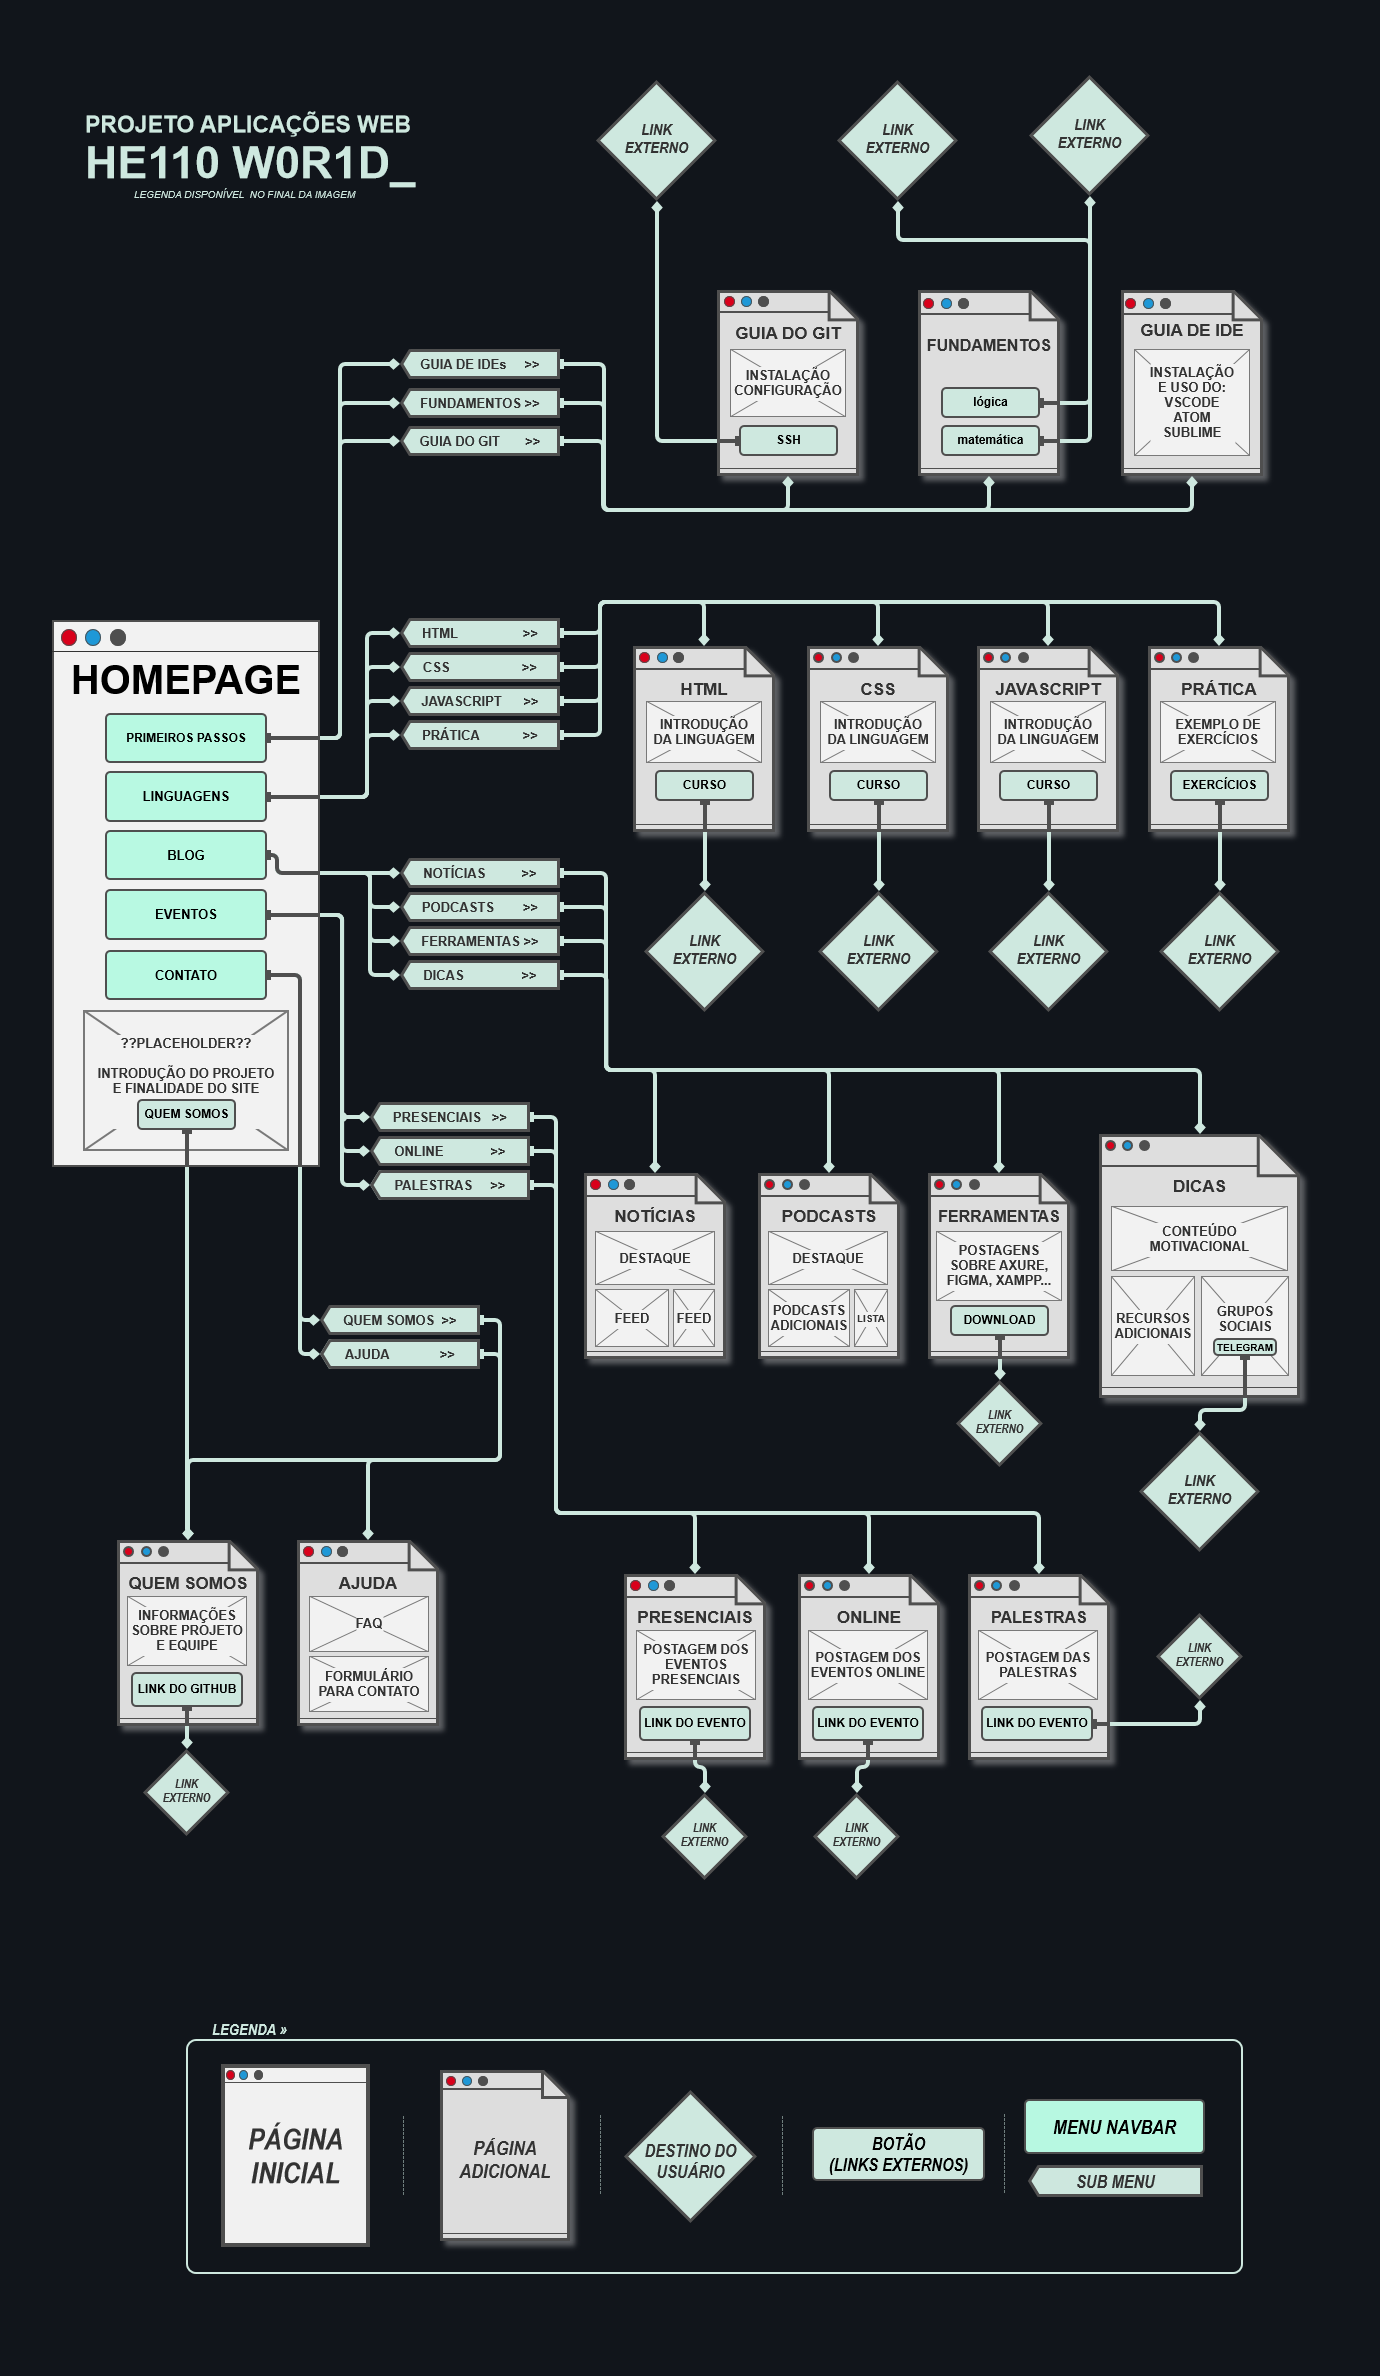
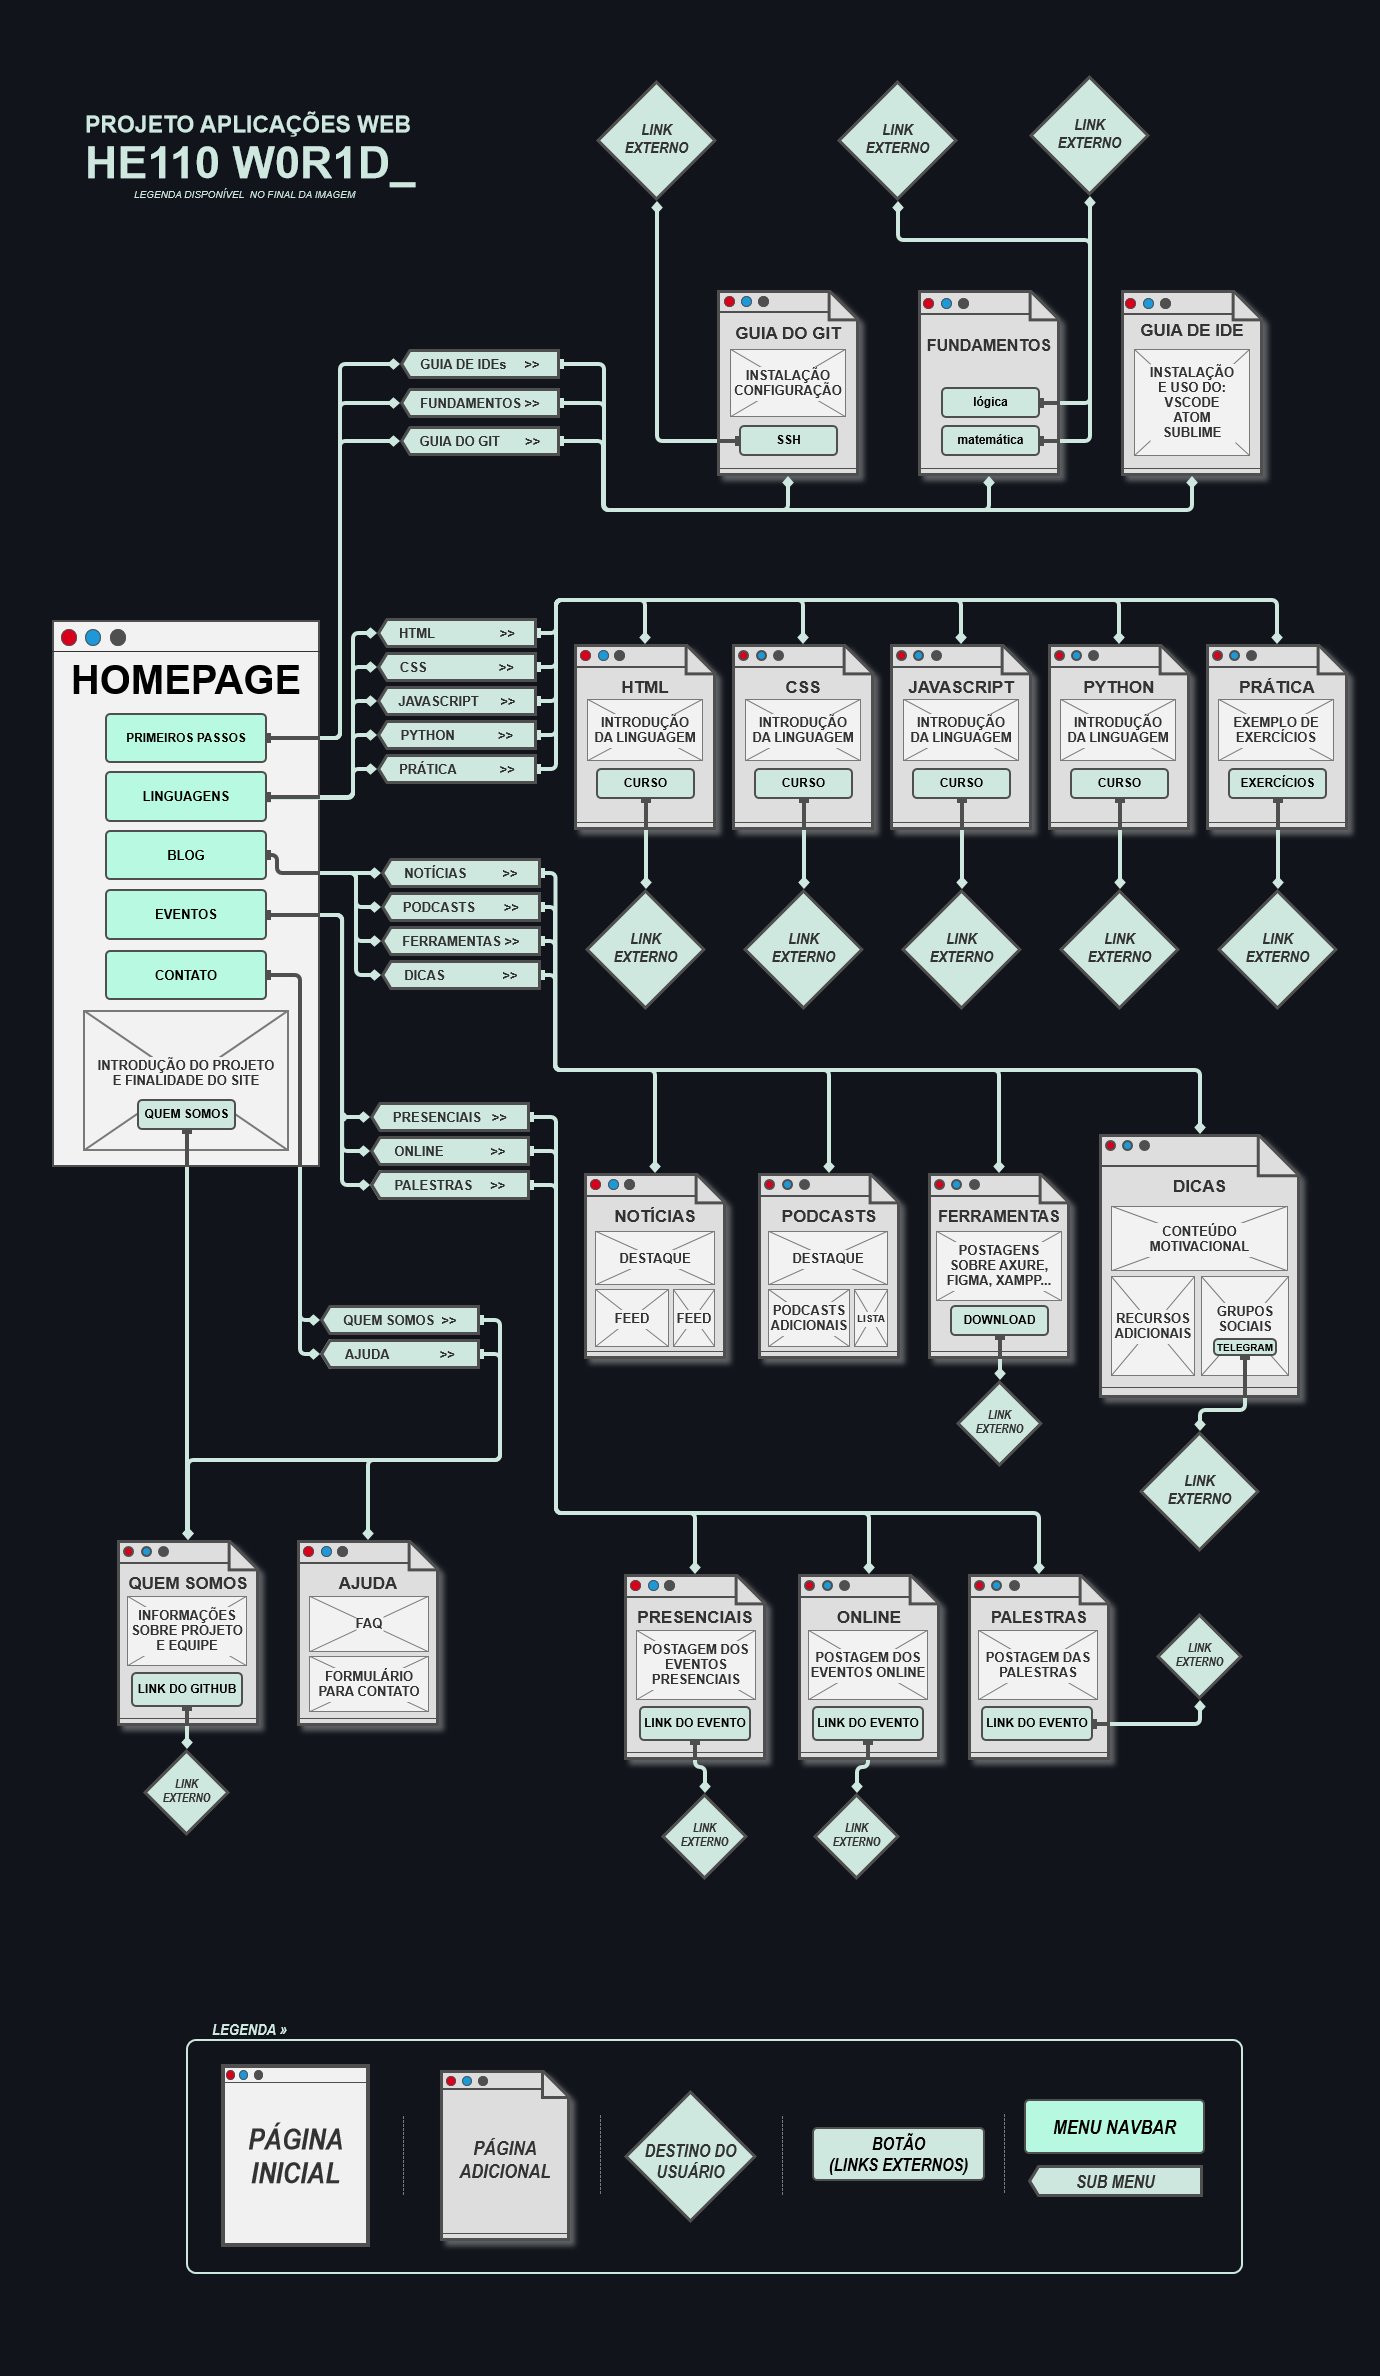
Python #31 adicionado ao Userflow #13

Changed region(s): [[0.2493, 0.2492, 0.9971, 0.436], [0.0623, 0.436, 0.187, 0.4672]]

diff --git a/docs/interface.md b/docs/interface.md
@@ -20,7 +20,7 @@ A home page é composta por um texto que explica o objetivo do site e oque o usu
 
 ### Primeiros Passos: Guia de IDEs
 
-Ao clicar no botão "Primeiros Passos" na página inicial, o usuário poderá selecionar entre 3 opções sendo "Guia de IDEs" um deles, que apresentará para o usuário a página abaixo com os principais editores de código disponíveis, tal como uma menção bônus do WebStorm (IDE dedicado para Frontend feito pela JetBrains - o qual possui uma licença anual para estudantes). No final da página o usuário encontra um vídeo externo comparando os editores mencionados.
+Ao clicar no botão "Primeiros Passos" na página inicial, o usuário poderá selecionar entre 3 opções sendo "Guia de IDEs" um deles, que apresentará para o usuário a página abaixo com os principais editores de código disponíveis, tal como uma menção bônus do WebStorm (IDE dedicado para Frontend feito pela JetBrains. No final da página contém um vídeo comparando os editores mencionados.
 
 ![Wireframe Editores de Código](img/guia_sobre_editores_de_codigo-wireframe.png)
 
